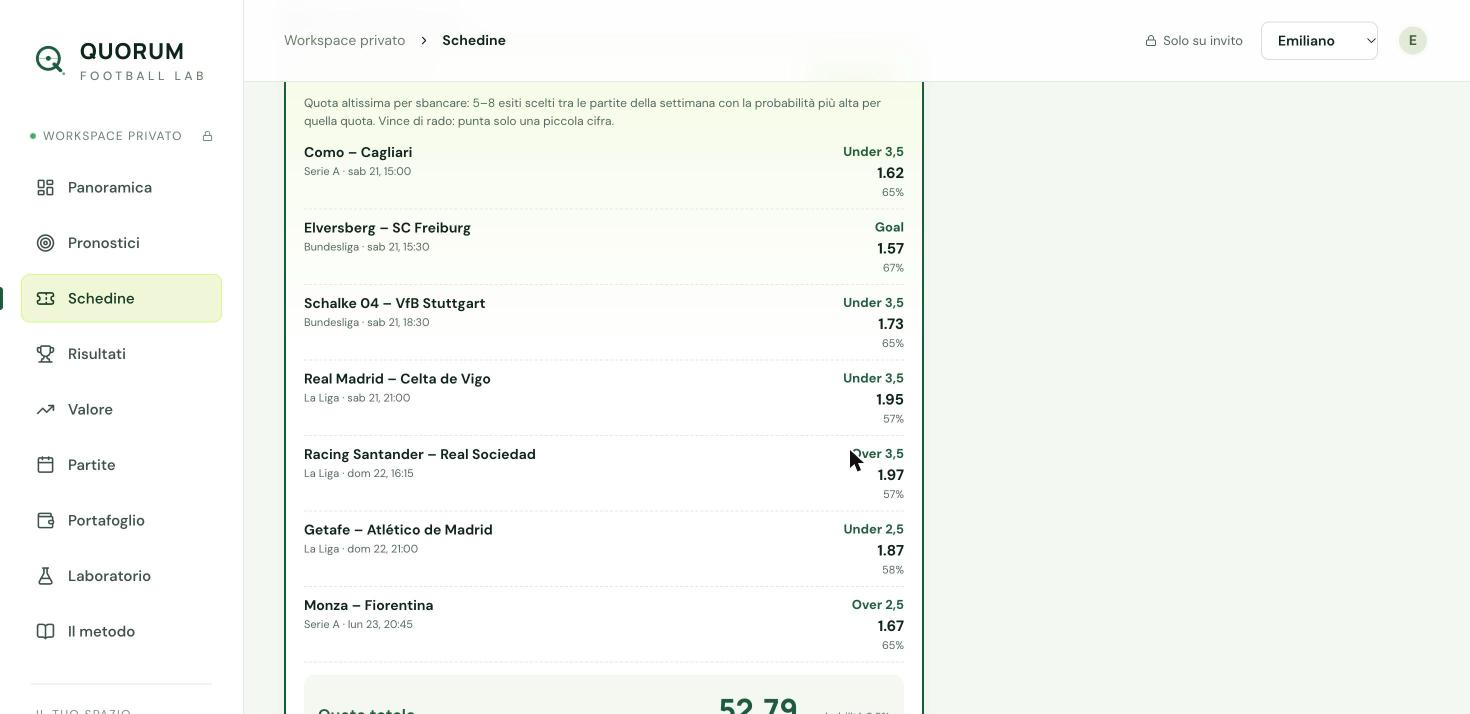
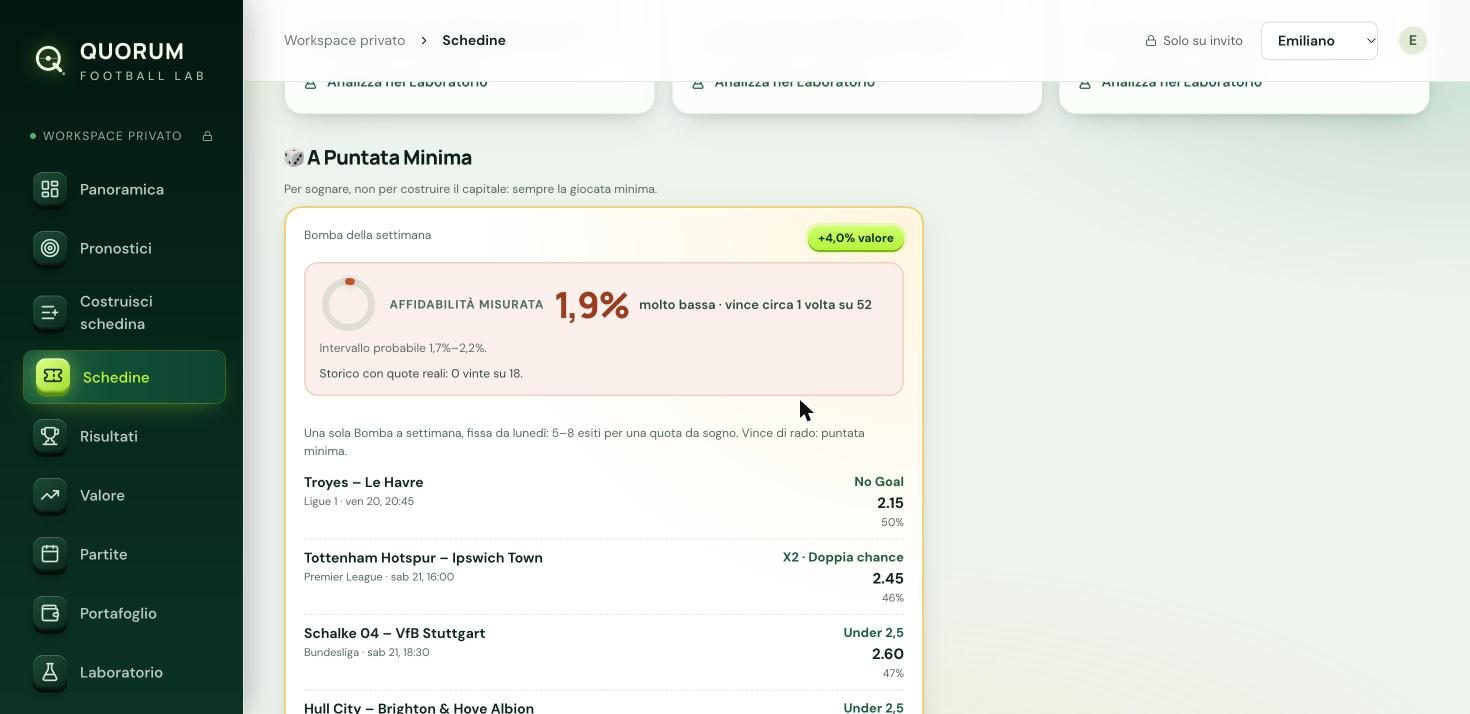
Guida aggiornata (24 slide): Costruisci schedina, schedine per il capitale, affidabilità misurata, raddoppi di valore, telefono, quote italiane; nuove schermate
Claude-Session: https://claude.ai/code/session_012ytxBfZSrzWK9qNNLezuEc

diff --git a/app/guide.tsx b/app/guide.tsx
@@ -6,10 +6,10 @@ type Slide = { img?: string; eyebrow: string; title: string; text: string; how: 
 
 const SLIDES: Slide[] = [
   { img: '01-panoramica', eyebrow: 'BENVENUTO', title: 'QUORUM in 30 secondi', text: 'QUORUM analizza ogni giorno le partite di Serie A, Premier League, La Liga, Bundesliga, Ligue 1 e Coppa Italia. Unisce le statistiche delle squadre alle quote dei bookmaker e ti dice cosa è probabile, cosa conviene giocare e quanto puntare.',
-    how: ['Ogni 3 ore scarica calendario, statistiche, infortuni e quote: non devi fare nulla.', 'La tua routine: Pronostici → Valore → Schedine → registra nel Portafoglio.', 'A fine partita QUORUM segna da solo vinte e perse e aggiorna il tuo capitale.', 'Dal telefono: aggiungi QUORUM alla schermata Home e usala come un’app.'],
+    how: ['Ogni 3 ore scarica calendario, statistiche, infortuni e quote (anche Lottomatica e Planetwin365): non devi fare nulla.', 'La tua routine: Pronostici → Schedine o Costruisci schedina → registra nel Portafoglio.', 'A fine partita QUORUM segna da solo vinte e perse e aggiorna il tuo capitale.', 'Dal telefono: aggiungi QUORUM alla schermata Home e usala come un’app.'],
     tip: 'Nessun modello indovina sempre. QUORUM ti dà un vantaggio di metodo: probabilità misurate, valore delle quote e gestione del capitale.' },
-  { img: '02-pronostici', eyebrow: 'PRONOSTICI', title: 'Le partite della settimana, lette dai numeri', text: 'È la pagina principale: tutte le partite dei prossimi 7 giorni, raggruppate per giorno, ognuna con il suo pronostico. In alto trovi l’affidabilità misurata del modello sulle partite già giocate.',
-    how: ['Filtra per campionato con i pulsanti sopra le partite.', 'Leggi “Affidabilità misurata”: un pronostico dato al 65% negli ultimi mesi è stato preso il 62% delle volte.', '“Aggiorna ora” ricalcola subito (le quote si riscaricano solo se hanno più di 30 minuti).'],
+  { img: '02-pronostici', eyebrow: 'PRONOSTICI', title: 'Le partite della settimana, lette dai numeri', text: 'È la pagina principale: tutte le partite dei prossimi 7 giorni, raggruppate per giorno, ognuna con il suo pronostico. In alto il campo animato, il nastro con gli esiti più probabili della settimana e il pulsante per costruire la tua schedina.',
+    how: ['Il nastro “PIÙ PROBABILI” scorre con gli esiti più sicuri, la loro probabilità e la quota italiana: passa sopra col mouse per fermarlo.', 'Sotto ogni pronostico trovi le quote di Lottomatica e Planetwin365 e se lì c’è valore.', 'Filtra per campionato con i pulsanti sopra le partite.', 'Leggi “Affidabilità misurata”: un pronostico dato al 65% negli ultimi mesi è stato preso il 62% delle volte.', '“Aggiorna ora” ricalcola subito (le quote si riscaricano solo se hanno più di 30 minuti).'],
     tip: 'Più la percentuale è alta, più il pronostico è solido, ma più la quota è bassa. L’affidabilità ti dice quanto fidarti.', go: 'predictions', goLabel: 'Apri i Pronostici' },
   { img: '03-scheda-partita', eyebrow: 'PRONOSTICI · LA SCHEDA', title: 'Cosa c’è in ogni partita', text: 'In alto il pronostico principale con la probabilità e l’etichetta di fiducia (Alta ≥ 60%, Media ≥ 48%, Bassa sotto). Sotto, tutti i mercati principali e quelli speciali.',
     how: ['Segno 1X2, doppia chance, Over/Under 2,5, Goal/No Goal, risultato più probabile.', 'Gol attesi: quanti gol il modello si aspetta da ogni squadra.', 'Corner e cartellini attesi, con la linea del bookmaker più vicina e la sua quota.', 'Rigori: probabilità che venga assegnato un rigore e che venga sbagliato.', 'Marcatori: i giocatori più probabili, con la quota reale quando disponibile (q).'],
@@ -18,21 +18,29 @@ const SLIDES: Slide[] = [
     how: ['Forma: quadratini V (vinta), N (pareggio), P (persa), dal più recente.', 'Indisponibili: nome e motivo. I marcatori infortunati sono già esclusi dal calcolo.', '“Mercato: in linea con le statistiche” = modello e bookmaker concordano. Se si discostano molto, controlla formazioni e notizie.', '“Tutti i mercati della partita” apre il Centro partita.'],
     tip: 'Un’assenza pesante (bomber, portiere titolare) non è ancora pesata nel numero: è lì perché tu la valuti.' },
   { img: '15-centro-partita', eyebrow: 'CENTRO PARTITA', title: 'Tutti i mercati e la tua giocata', text: 'Il Centro partita mostra ogni mercato con probabilità e quota equa. A destra costruisci la tua ipotesi e la registri nel portafoglio.',
-    how: ['Clicca un esito: a destra compaiono probabilità e quota equa.', 'Scrivi la quota del tuo bookmaker: QUORUM calcola il valore atteso.', 'Inserisci l’importo (ti propone quello del tuo profilo) e premi “Registra”.', 'Schede: Mercati, Risultati esatti, Corner e cartellini, Logica del modello, Analista AI.'],
+    how: ['Clicca un esito: a destra compaiono probabilità e quota equa.', 'Scrivi la quota del tuo bookmaker: QUORUM calcola il valore atteso.', 'Inserisci l’importo (ti propone quello del tuo profilo) e premi “Registra”.', 'Schede: Mercati, Risultati esatti, Corner e cartellini, Logica del modello. L’Analista AI è riservato all’amministratore.'],
     tip: 'Gioca solo se la quota del tuo bookmaker è più alta della quota equa: è l’unico modo per guadagnare nel lungo periodo.' },
   { img: '16-corner-tab', eyebrow: 'CENTRO PARTITA · CORNER E CARTELLINI', title: 'Linee su corner, cartellini e gol per squadra', text: 'Scegli statistica (corner, gialli, rossi, gol) e squadra (totale, casa, ospite): vedi la probabilità di ogni linea Over/Under.',
     how: ['Le medie sono calcolate su ~13 mesi di partite, tenendo conto dell’avversario.', 'Cerca le linee vicine alla media attesa: lì le probabilità sono più informative.', 'Confronta con la quota del bookmaker prima di giocare.'] },
   { img: '07-valore', eyebrow: 'VALORE', title: 'Dove la quota paga più del dovuto', text: 'Lo scanner confronta ogni esito con le quote di decine di bookmaker europei. Una “value bet” è un esito che il bookmaker paga più di quanto vale secondo QUORUM.',
-    how: ['Stima QUORUM = 35% statistiche + 65% consenso del mercato (senza margine): più prudente del solo modello.', 'Valore = stima × quota migliore − 1. +5% significa che, nel lungo periodo, ogni 100 € giocati rendono 5 €.', '“Supera i controlli QUORUM”: valore ≥ 3%, quota ≤ 4,50, almeno 5 bookmaker, modello vicino al mercato.', 'Le altre sono visibili con il motivo dell’attenzione: decidi tu.'],
+    how: ['Stima QUORUM = 35% statistiche + 65% consenso del mercato (senza margine): più prudente del solo modello.', 'Valore = stima × quota migliore − 1. +5% significa che, nel lungo periodo, ogni 100 € giocati rendono 5 €.', '“Supera i controlli QUORUM”: valore ≥ 3%, quota ≤ 4,50, almeno 5 bookmaker, modello vicino al mercato.', 'Le altre sono visibili con il motivo dell’attenzione: decidi tu.', 'Il riquadro azzurro mostra la quota di Lottomatica / Planetwin365: la puntata indicativa è calcolata su quella. Il filtro “Valore su Lottomatica / Planetwin365” mostra solo quelle giocabili con valore.'],
     tip: 'Il valore si vede su tante giocate, non sulla singola. Per questo conta la puntata giusta.', go: 'value', goLabel: 'Apri Valore' },
-  { img: '05-bomba', eyebrow: 'SCHEDINE · BOMBA DELLA SETTIMANA', title: 'Quota alta per sbancare', text: '5–8 esiti scelti tra le partite della settimana, quota totale tra 50 e 200. QUORUM sceglie la combinazione più probabile per quella quota, usando solo esiti con almeno il 45% e mai contro il mercato.',
-    how: ['Viene salvata una volta a settimana e regolata in automatico.', 'La puntata indicativa è piccola apposta: è una giocata da sogno.', '“Analizza nel Laboratorio” mostra tutti gli scenari possibili.'],
-    tip: 'Con il 3% di probabilità entra in media una volta ogni 30. Giocala con soldi che consideri già spesi.', go: 'tickets', goLabel: 'Apri Schedine' },
-  { img: '06-multiple', eyebrow: 'SCHEDINE · MULTIPLE', title: 'Multiple pronte, ognuna con il suo scopo', text: 'Ogni giorno QUORUM compone le multiple dalle partite della settimana, sempre con un solo esito per partita.',
-    how: ['Raddoppio in multipla: 2–3 esiti molto probabili che insieme fanno circa quota 2.', 'Multipla prudente: 3–4 esiti solidi, quota 2,5–4.', 'Multipla di valore: solo esiti con valore positivo.', 'Multipla quota 10: da 3 o da 5 esiti, quota totale 10–13, la combinazione più probabile in quella fascia.', 'Multipla più probabile: 3, 4 o 5 esiti con la probabilità più alta.', 'Per ognuna: quota totale, probabilità, valore e bookmaker con la quota migliore.'],
-    tip: 'Ogni partita in più moltiplica il margine del bookmaker. Le multiple corte sono le più sostenibili.' },
-  { img: '09-raddoppi', eyebrow: 'SCHEDINE · RADDOPPI', title: 'Raddoppia con la singola', text: 'Singole a quota circa 2 (1,80–2,40): se vincono raddoppi la puntata. Sono ordinate per valore, poi per probabilità.',
-    how: ['Una sola partita: nessun rischio che un altro risultato rovini la schedina.', 'Le prime 3 del giorno vengono salvate e misurate nei Risultati.', 'Puntata indicativa già calcolata sul tuo budget.'] },
+  { img: '05-bomba', eyebrow: 'SCHEDINE · A PUNTATA MINIMA', title: 'Bomba della settimana e quota 10', text: 'Due giocate da sogno, sempre a puntata minima (2 €). La Bomba è una sola a settimana: viene creata la prima volta nella settimana e resta fissa fino a domenica. La quota 10 da 3 eventi cerca la combinazione più probabile a quota 10–13.',
+    how: ['L’anello rosso e la percentuale dicono quanto spesso vince: la Bomba circa 1 volta su 30–50.', 'Quando la prima partita è iniziata compare “non più giocabile”: la vedi per seguirne l’esito.', 'Mescola mercati diversi (No Goal, doppia chance, Under, 1X2): mai tutti dello stesso tipo.', '“Analizza nel Laboratorio” mostra tutti gli scenari possibili.'],
+    tip: 'Servono per sognare, non per far crescere il capitale: giocale solo con la puntata minima.', go: 'tickets', goLabel: 'Apri Schedine' },
+  { img: '06-multiple', eyebrow: 'SCHEDINE · PER FAR CRESCERE IL CAPITALE', title: 'Le schedine con lo storico migliore', text: 'In cima a Schedine trovi le due giocate su cui costruire il capitale: la multipla più probabile da 3 eventi e il raddoppio in multipla (2–3 esiti che insieme fanno circa quota 2). Un solo esito per partita, mercati vari: 1X2, doppia chance, gol, Goal/No Goal.',
+    how: ['Affidabilità misurata: la percentuale grande con l’anello è la probabilità che la schedina vinca, già corretta con il backtest.', 'Colore: verde alta (≥ 60%), oro media, rosso bassa. Sotto: “vince circa 8 volte su 10”.', 'Intervallo probabile: quanto può oscillare la misura (es. 69%–85%).', 'Storico con quote reali: come sono andate le schedine di quel tipo nelle settimane passate.', 'Riga verde = puntata consigliata sul tuo capitale. Riga rossa = oggi la quota non ripaga il rischio: meglio saltarla.'],
+    tip: 'Leggi prima l’affidabilità, poi il valore. Le quote sono quelle di Lottomatica / Planetwin365: gioca solo se sul tuo conto sono uguali o più alte.', go: 'tickets', goLabel: 'Apri Schedine' },
+  { eyebrow: 'AFFIDABILITÀ MISURATA', title: 'Come QUORUM misura quanto fidarsi', text: 'Ogni settimana QUORUM rigioca da solo le ultime partite usando solo i dati disponibili prima di ognuna (backtest) e confronta quello che aveva previsto con quello che è successo davvero. Se in una fascia sbaglia, corregge le probabilità.',
+    how: ['Esempio: le favorite nette date al 72% hanno vinto l’85% delle volte → QUORUM ora le stima più alte.', 'Goal/No Goal alti erano troppo ottimisti (67% previsto, 58% reale) → ora sono abbassati.', 'Su oltre 5.000 esiti misurati. Man mano che le partite finiscono, entrano anche i risultati reali delle previsioni di QUORUM.', 'Le schedine sono corrette anche per tipo: se un tipo di schedina ha vinto meno del previsto con le quote reali, la sua affidabilità scende.'],
+    tip: 'Una misura onesta vale più di una promessa: se un numero ti sembra basso, è perché i dati dicono così.' },
+  { img: '09-raddoppi', eyebrow: 'SCHEDINE · RADDOPPI SINGOLI DI VALORE', title: 'Raddoppia con una sola partita', text: 'Singole a quota 1,70–2,50 dove la quota di Lottomatica / Planetwin365 paga più della probabilità stimata. Ordinate per probabilità: prima le più sicure tra quelle con valore.',
+    how: ['Una sola partita: nessun altro risultato può rovinare la giocata.', 'Se la riga sotto è rossa (“la quota non ripaga il rischio”), QUORUM ti consiglia di saltarla: lo storico di questo tipo è ancora negativo.', 'Quando le quote italiane batteranno con costanza quelle di chiusura, la puntata consigliata tornerà da sola.'] },
+  { img: '19-costruisci', eyebrow: 'COSTRUISCI LA TUA SCHEDINA', title: 'Scegli tu, QUORUM misura', text: 'Una sezione per costruirti la schedina che vuoi: 1, 2, 5, 10 o 20 eventi. In alto gli esiti più probabili della settimana e le quote con più valore; a destra la tua schedina che si aggiorna mentre scegli.',
+    how: ['Tocca una quota per aggiungerla (diventa verde). Tocca di nuovo per toglierla.', 'Un solo esito per partita: se ne scegli un altro della stessa partita, sostituisce il precedente.', 'La schedina mostra quota totale, affidabilità misurata, valore, puntata consigliata e vincita potenziale. La puntata la puoi cambiare tu.', '“Copia schedina” copia il testo pronto; “Sistemi nel Laboratorio” la porta nel Laboratorio.', 'Resta salvata anche se chiudi l’app.'],
+    tip: 'Gli esiti più probabili (80%) hanno quote basse e di solito poco valore: mescolali con qualcuno che abbia valore e guarda sempre l’affidabilità.', go: 'builder', goLabel: 'Costruisci la tua schedina' },
+  { img: '20-costruisci-mercati', eyebrow: 'COSTRUISCI · LE PARTITE', title: 'Tutte le quote di ogni partita', text: 'Sotto trovi tutte le partite della settimana divise per giorno, con 1X2, doppia chance, Over/Under 1,5–2,5–3,5 e Goal/No Goal. Ogni quota mostra la probabilità QUORUM.',
+    how: ['★ in giallo: i due esiti più probabili della partita.', 'Bordo verde: la quota italiana paga almeno il 3% in più del dovuto.', '* accanto alla quota: esito non quotato da Lottomatica / Planetwin365 (quota estera).', '“Altri mercati”: corner, cartellini e marcatori.', 'Filtra per campionato, cerca una squadra o ordina per probabilità.'] },
   { img: '17-laboratorio', eyebrow: 'LABORATORIO', title: 'Metti alla prova una schedina', text: 'Carica una schedina QUORUM o costruiscine una tua (fino a 8 partite) e confronta singole, multipla e sistemi.',
     how: ['Modifica le quote con quelle del tuo bookmaker.', 'Scegli il tipo di sistema e la puntata per combinazione.', 'Leggi probabilità di profitto, costo, perdita massima e valore atteso netto.'],
     tip: 'Se il valore atteso è negativo, più combinazioni non lo rendono positivo: aumentano solo il costo.', go: 'lab', goLabel: 'Apri il Laboratorio' },
@@ -50,10 +58,12 @@ const SLIDES: Slide[] = [
     how: ['Le giocate si regolano da sole a fine partita; puoi anche segnarle a mano.', 'Regole attive: QUORUM blocca le giocate oltre i limiti. Disattivate: valgono solo come riferimento.', 'Esporta il diario in CSV quando vuoi.', 'Puoi creare più portafogli, ognuno con il suo nome e budget.'] },
   { img: '14-partite', eyebrow: 'PARTITE', title: 'Il calendario giorno per giorno', text: 'Scegli una data e una competizione: vedi tutte le partite in programma e apri il Centro partita di ognuna.',
     how: ['Cerca una squadra con il campo di ricerca.', 'Clicca una partita per l’analisi completa.', 'Utile per giocare una partita che non è tra i pronostici in evidenza.'], go: 'matches', goLabel: 'Apri le Partite' },
-  { img: '18-collegamenti', eyebrow: 'COLLEGAMENTI E TELEFONO', title: 'Dati, chiavi e app sul telefono', text: 'QUORUM usa Sportmonks (calendario, statistiche, infortuni), The Odds API (quote) e OpenAI (analista AI). Le chiavi sono cifrate e restano sul server di QUORUM.',
+  { img: '21-telefono', eyebrow: 'SUL TELEFONO', title: 'QUORUM in tasca', text: 'Sul telefono la barra in basso porta a Pronostici, Costruisci, Schedine, Valore e Capitale. In Costruisci la schedina diventa un cassetto: una barra in basso con eventi, quota e affidabilità.',
+    how: ['Tocca “Apri” per vedere la schedina completa, “Chiudi” per tornare alle partite.', 'Filtri e quote più probabili scorrono col dito.', 'Le quote sono in griglia, larghe e facili da toccare.'] },
+  { img: '18-collegamenti', eyebrow: 'COLLEGAMENTI E TELEFONO', title: 'Dati, chiavi e app sul telefono', text: 'QUORUM usa Sportmonks (calendario, statistiche, infortuni), The Odds API (quote dei bookmaker europei), OddsPapi (quote Lottomatica e Planetwin365) e OpenAI (analista AI, solo amministratore). Le chiavi sono cifrate e restano sul server di QUORUM.',
     how: ['Collegamenti: stato e aggiornamento delle chiavi (solo amministratore).', 'Android: Chrome → menu → “Installa app” o “Aggiungi a schermata Home”.', 'iPhone: Safari → Condividi → “Aggiungi alla schermata Home”.', 'L’accesso resta attivo a lungo: non serve rifare il login ogni giorno.'] },
   { eyebrow: 'GLOSSARIO', title: 'Le parole di QUORUM', text: 'I termini che trovi nell’app, spiegati in una riga.',
-    how: ['Quota equa: 1 ÷ probabilità. La quota giusta, senza margine del bookmaker.', 'Valore: quanto la quota offerta supera quella equa. Positivo = conveniente nel lungo periodo.', 'Fiducia: Alta ≥ 60%, Media ≥ 48%, Bassa sotto.', 'Gol attesi: i gol che il modello si aspetta da ogni squadra.', 'Kelly (¼): formula che dimensiona la puntata in base al valore; QUORUM ne usa un quarto, massimo 2%.', 'Drawdown: quanto è sceso il capitale dal suo massimo.', 'Backtest: il modello provato sulle partite passate senza conoscere i risultati.', 'ROI: profitto diviso per il totale giocato.'],
+    how: ['Quota equa: 1 ÷ probabilità. La quota giusta, senza margine del bookmaker.', 'Valore: quanto la quota offerta supera quella equa. Positivo = conveniente nel lungo periodo.', 'Fiducia: Alta ≥ 60%, Media ≥ 48%, Bassa sotto.', 'Gol attesi: i gol che il modello si aspetta da ogni squadra.', 'Kelly (¼): formula che dimensiona la puntata in base al valore; QUORUM ne usa un quarto, massimo 2%.', 'Drawdown: quanto è sceso il capitale dal suo massimo.', 'Backtest: il modello provato sulle partite passate senza conoscere i risultati.', 'ROI: profitto diviso per il totale giocato.', 'Affidabilità misurata: probabilità che la giocata vinca, corretta con il backtest e con i risultati reali.', 'Doppia chance: 1X, X2 o 12, vinci con due risultati su tre.'],
     tip: 'Gioca responsabilmente: solo maggiorenni, solo con soldi che puoi permetterti di perdere.' },
 ];
 

diff --git a/app/globals.css b/app/globals.css
@@ -473,3 +473,7 @@ body{background:#eef3ee}
 /* Icone 3D anche nella barra del telefono */
 .mobile-nav>button>svg{width:30px;height:30px;padding:5px;border-radius:9px;background:linear-gradient(145deg,#174531,#0a2519);box-shadow:inset 0 1px 0 rgba(255,255,255,.15),0 3px 0 #020b06}
 .mobile-nav>button.active>svg{color:#0b2a1d;background:linear-gradient(145deg,#dcff8a,#9fdc2c);box-shadow:inset 0 1px 0 rgba(255,255,255,.6),0 3px 0 #5f8d12,0 0 16px rgba(182,242,62,.6)}
+.builder-best{align-items:flex-start;align-self:flex-start}.builder-best span{line-height:1.3;height:auto}
+.reliability>div:first-child{flex-wrap:wrap;row-gap:4px}
+/* Guida: immagine che entra con zoom morbido */
+.guide-img img{animation:q-rise .5s cubic-bezier(.2,.8,.2,1) both}
